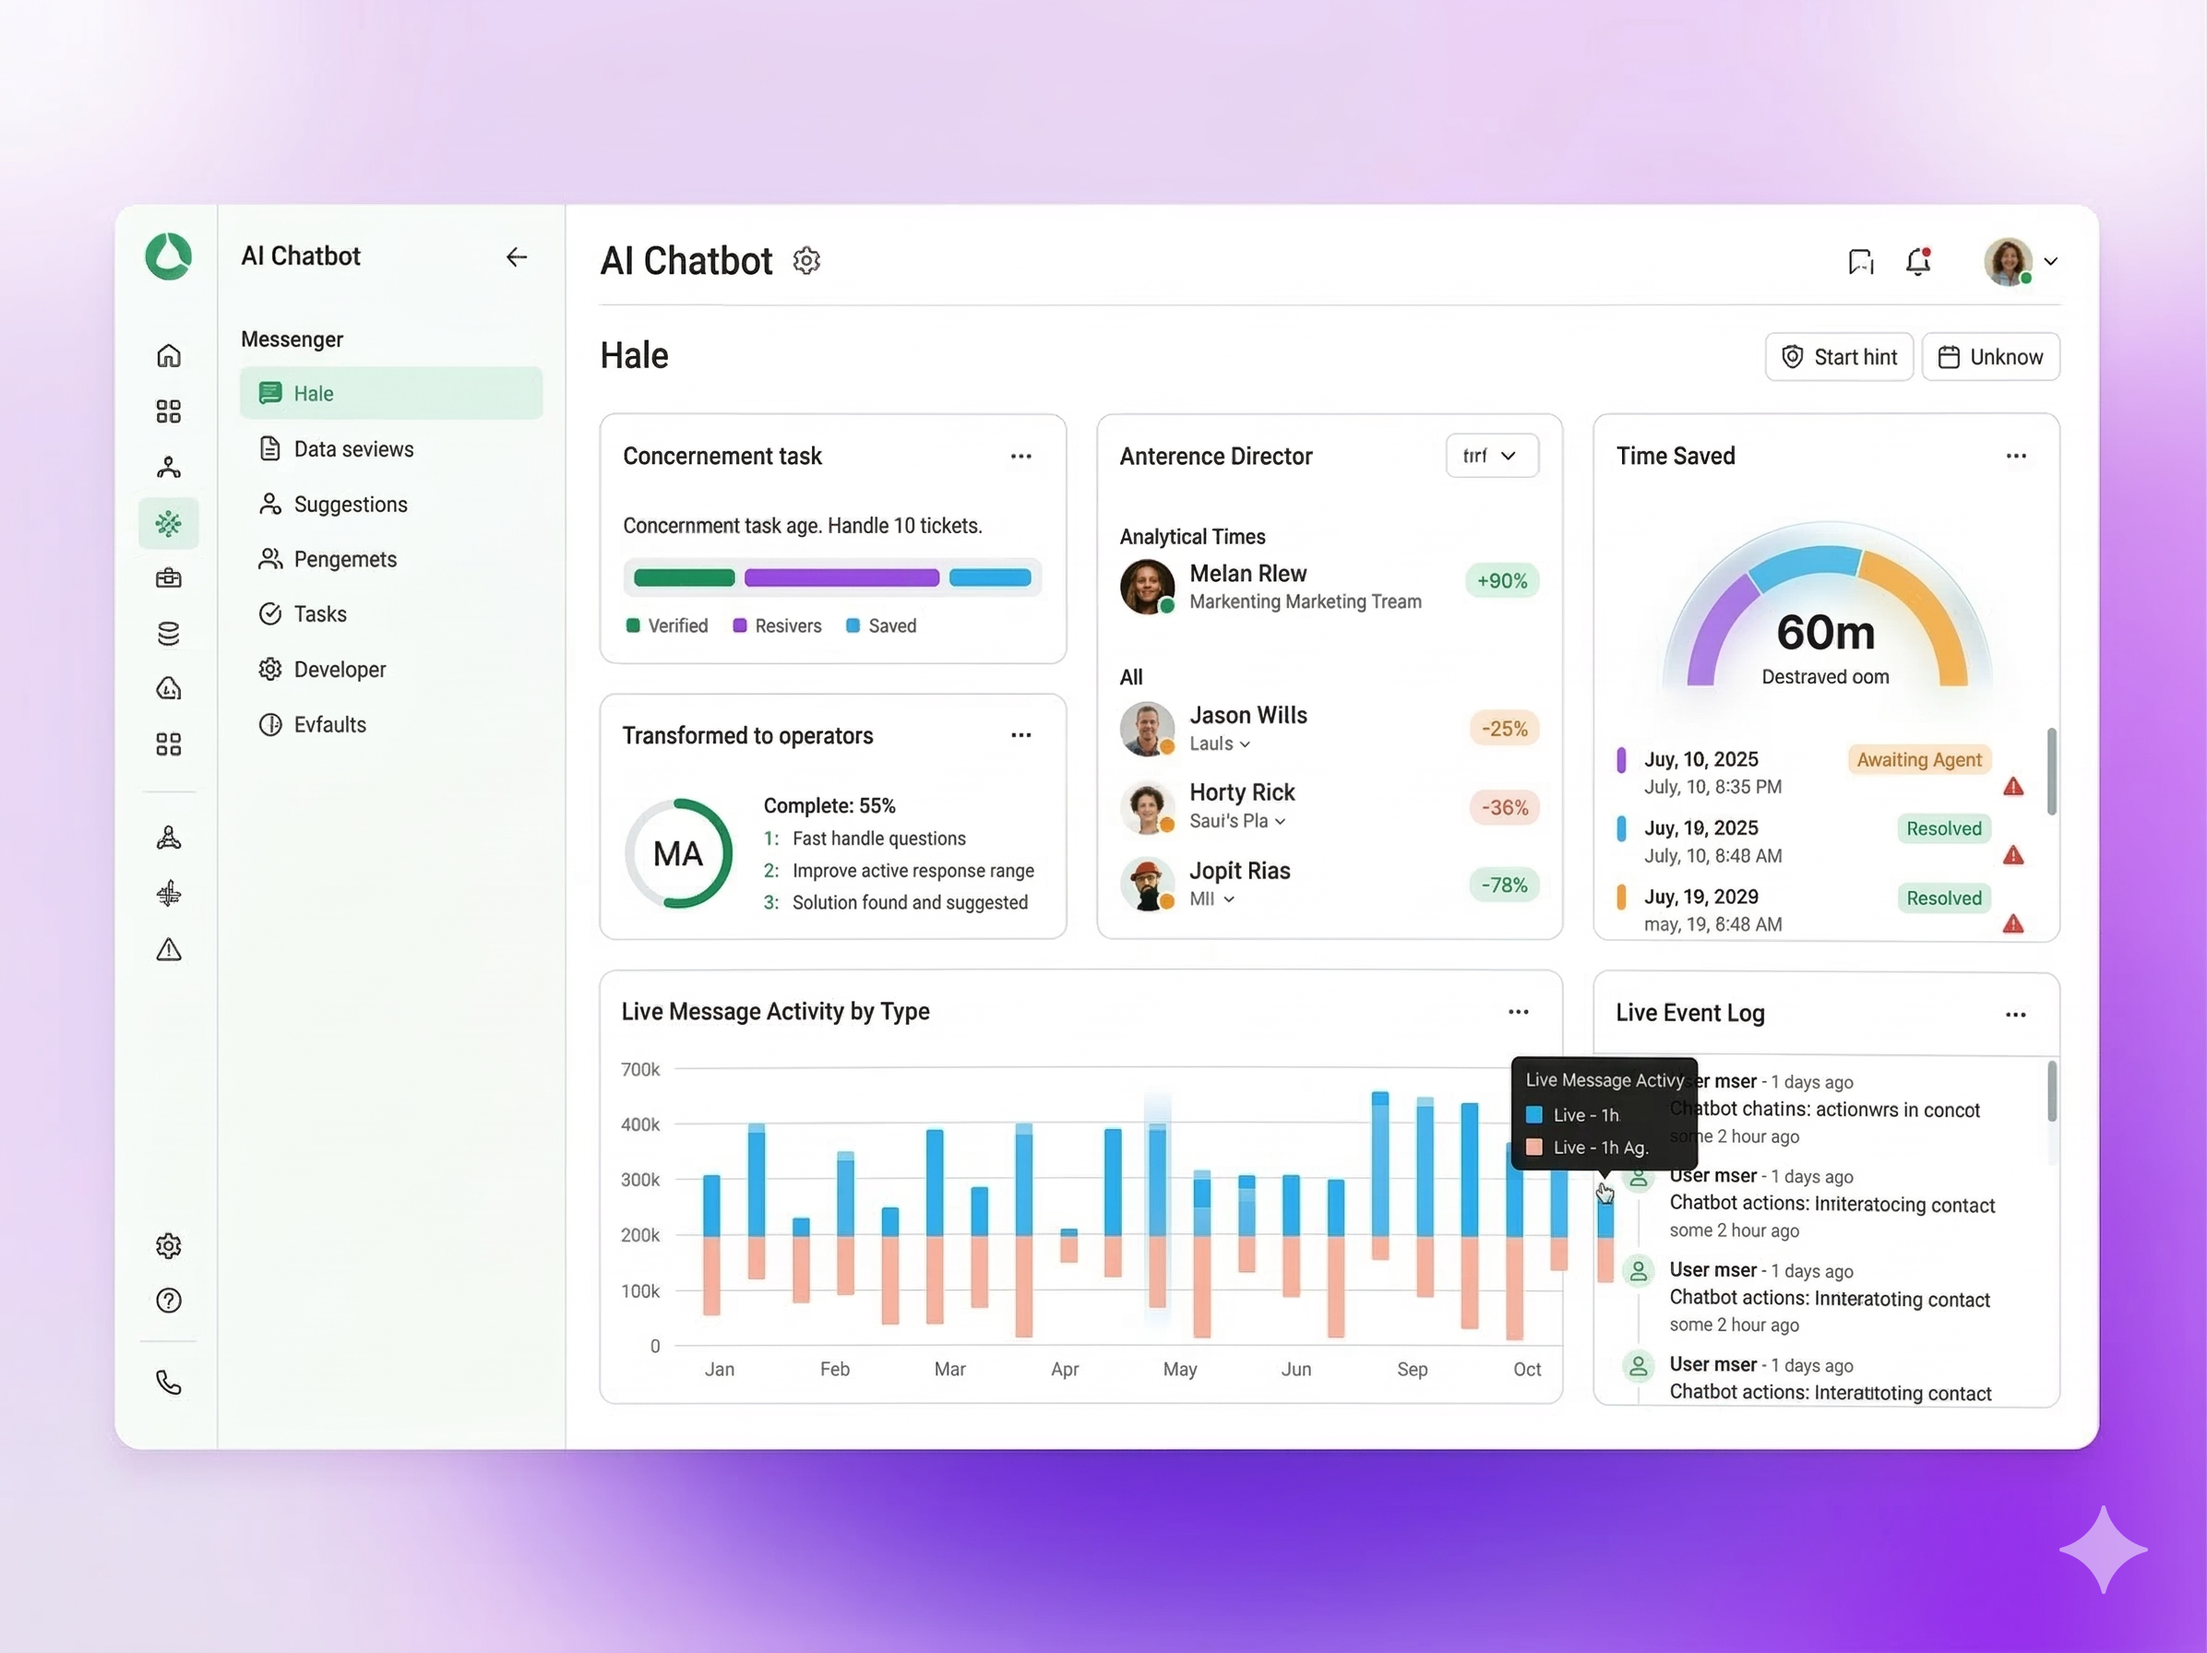
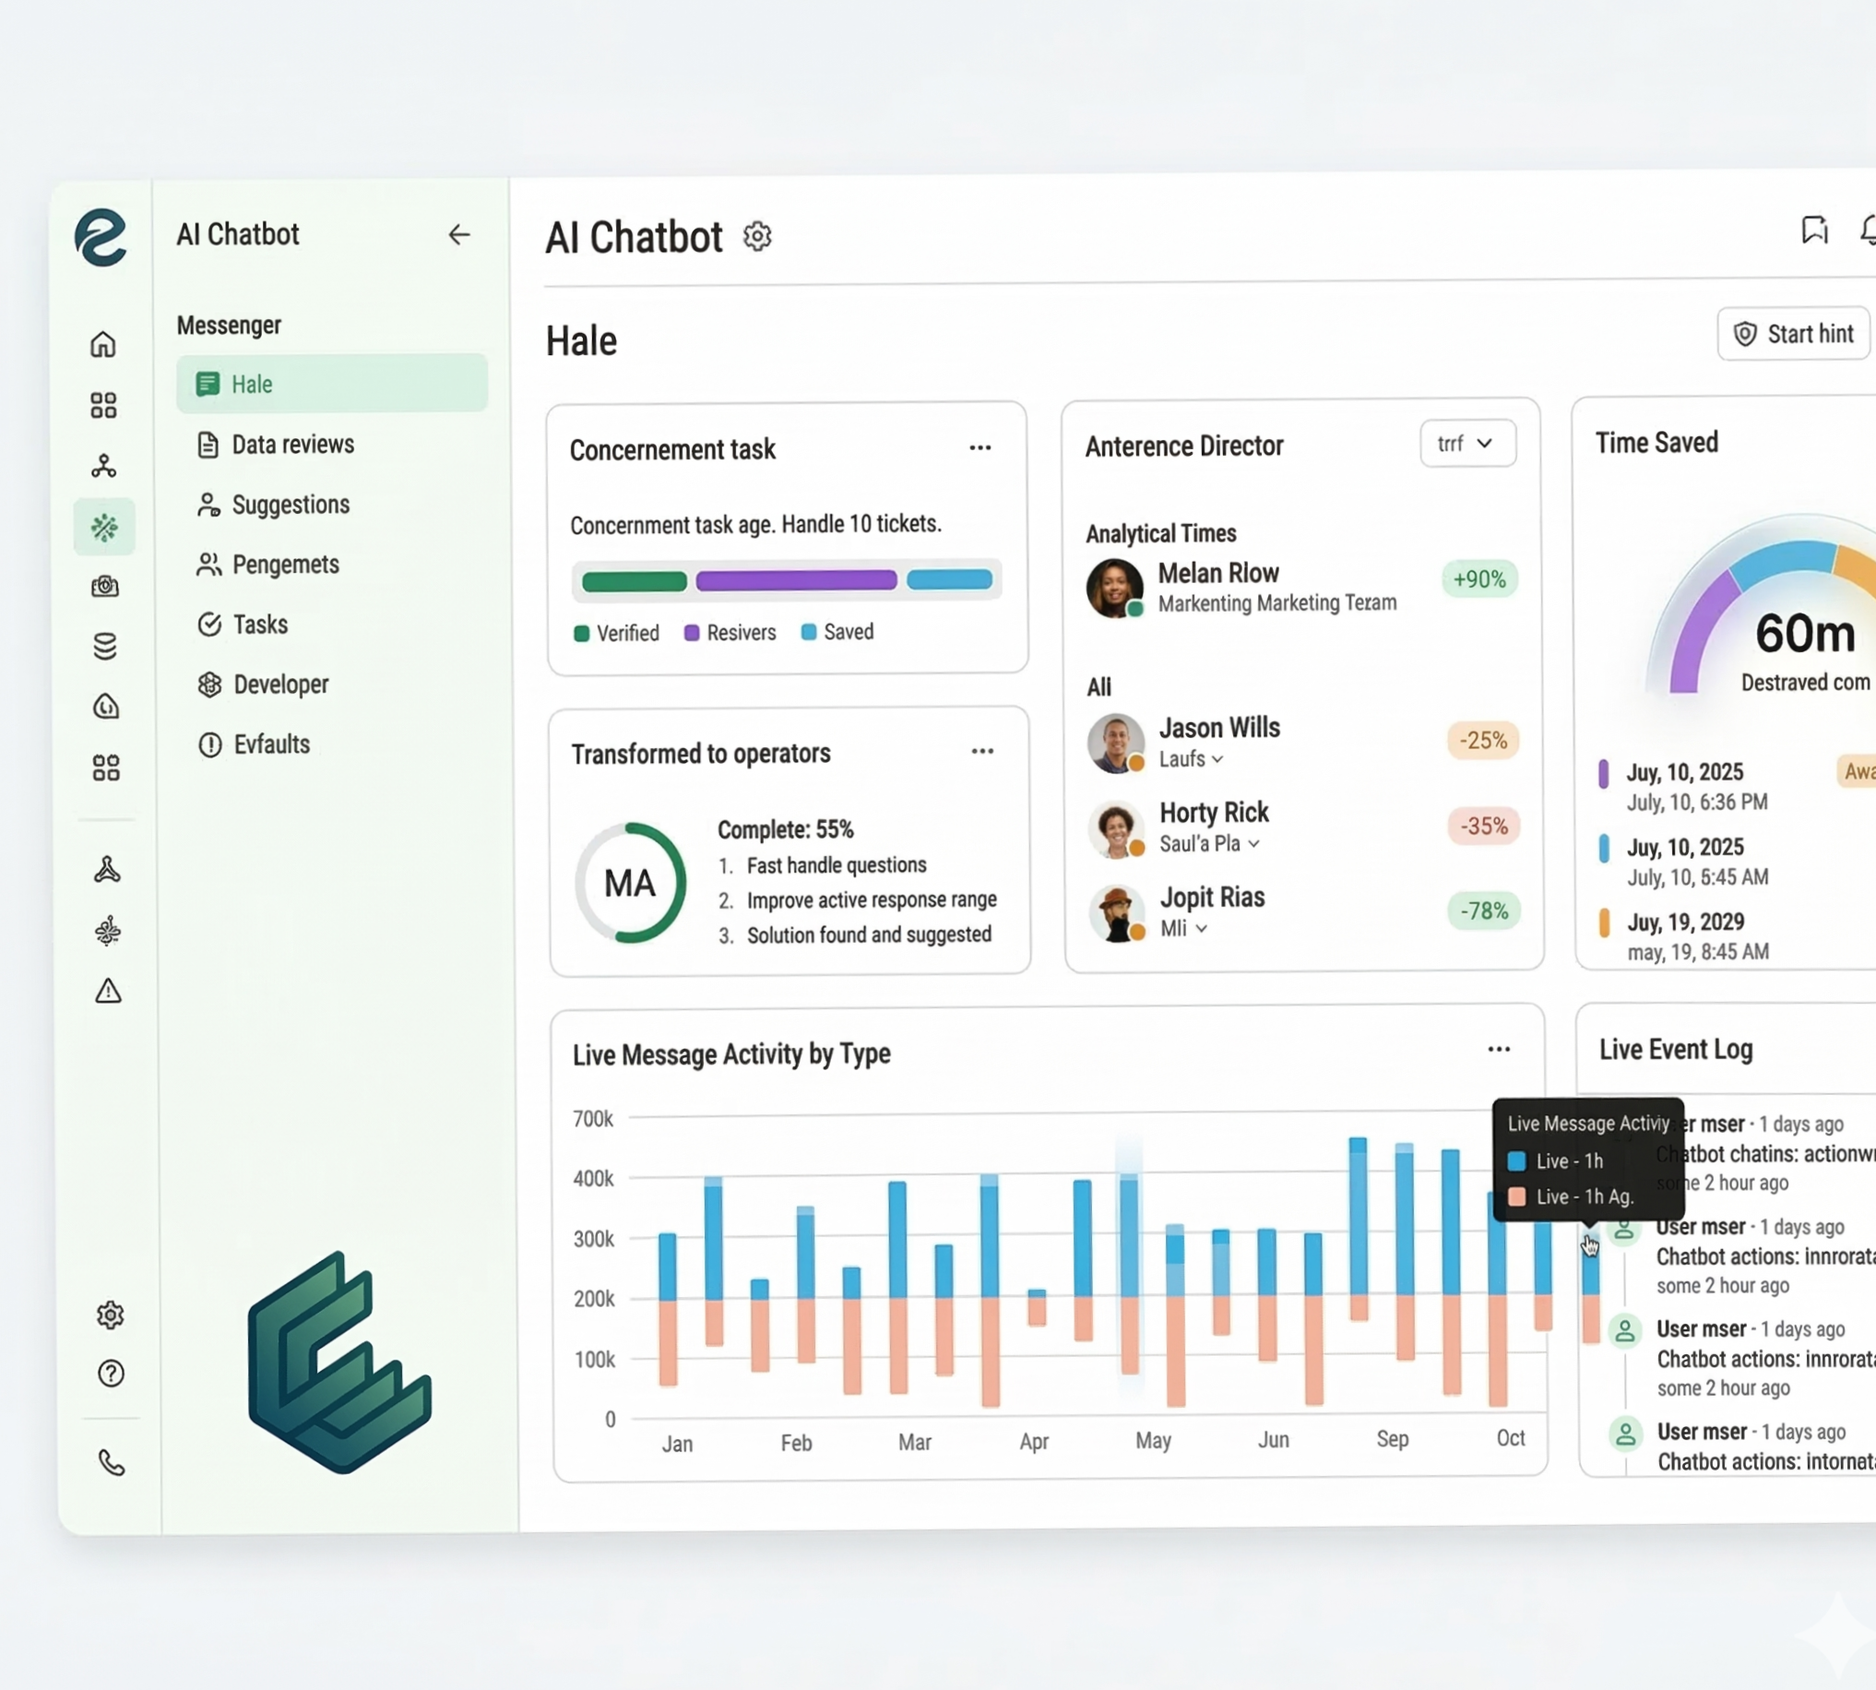
new changes made

diff --git a/src/Timeline.tsx b/src/Timeline.tsx
@@ -34,7 +34,7 @@ const steps: Step[] = [
     icon: <Layers className="w-6 h-6 md:w-7 md:h-7 text-current" />,
     image: architectureImg,
     description: "Our engineers build custom, AEON-powered flows tailored to your brand's unique logic.",
-    bgClass: "bg-[#E4D4F4]", // Pastel purple
+    bgClass: "bg-black", // Changed to black background for PNG compatibility
     iconWrapperClass: "bg-[#4B4EFC] text-white", // Royal Blue Rounded
   },
   {
@@ -42,7 +42,7 @@ const steps: Step[] = [
     title: "The Integration",
     icon: <Puzzle className="w-5 h-5 md:w-6 md:h-6 text-current" />,
     image: integrationImg,
-    description: "We sync your AI agents seamlessly with your CRM and existing tech stack.",
+    description: "We sync your AI agents seamlessly with your CRM (Hubspot, Zoho, or Salesforce) and existing stack.",
     bgClass: "bg-[#F9FAFB]", // Very light gray/white
     iconWrapperClass: "bg-[#1F2937] text-white", // Dark Slate Pill/Toggle
   },
@@ -105,7 +105,7 @@ export default function Timeline() {
               <motion.div
                 whileHover={{ scale: 1.05, y: -8 }}
                 transition={{ type: "spring", stiffness: 300, damping: 20 }}
-                className={`relative w-full aspect-[4/3] rounded-[1.25rem] ${step.id === 1 || step.id === 2 || step.id === 3 || step.id === 4 ? 'bg-white' : step.bgClass} overflow-hidden mb-6 shadow-sm border border-black/5 flex items-center justify-center cursor-pointer`}
+                className={`relative w-full aspect-[4/3] rounded-[1.25rem] ${step.id === 1 ? 'bg-white' : step.bgClass} overflow-hidden mb-6 shadow-sm border border-black/5 flex items-center justify-center cursor-pointer`}
               >
 
                 {/* Specific Background Patterns to match user reference */}
@@ -129,8 +129,8 @@ export default function Timeline() {
                   {step.id === 1 && (
                     <div className="flex flex-col items-center justify-center w-full h-full relative group/audit overflow-hidden rounded-[1.25rem]">
                       {/* Full Image visible filling the absolute container (zooms in on hover) */}
-                      <div className="absolute inset-0 z-10 transition-transform duration-700 ease-out scale-100 group-hover:scale-[1.12] origin-center bg-white">
-                        <img src={step.image} alt="Audit Process" className="w-full h-full object-cover" />
+                      <div className={`absolute inset-0 z-10 transition-transform duration-700 ease-out scale-100 group-hover:scale-[1.12] origin-center ${step.id === 1 ? 'bg-white' : 'transparent'}`}>
+                        <img src={step.image} alt="Audit Process" className="w-full h-full object-contain" />
                         <div className="absolute inset-0 shadow-[inset_0_0_40px_rgba(0,0,0,0.1)] pointer-events-none" />
                       </div>
                     </div>
@@ -140,8 +140,8 @@ export default function Timeline() {
                   {step.id === 2 && (
                     <div className="flex flex-col items-center justify-center w-full h-full relative group/arch overflow-hidden rounded-[1.25rem]">
                       {/* Full Image visible filling the absolute container (zooms in on hover) */}
-                      <div className="absolute inset-0 z-10 transition-transform duration-700 ease-out scale-100 group-hover:scale-[1.12] origin-center bg-white">
-                        <img src={step.image} alt="Architecture Process" className="w-full h-full object-cover" />
+                      <div className="absolute inset-0 z-10 transition-transform duration-700 ease-out scale-100 group-hover:scale-[1.12] origin-center transparent">
+                        <img src={step.image} alt="Architecture Process" className="w-full h-full object-contain" />
                         <div className="absolute inset-0 shadow-[inset_0_0_40px_rgba(0,0,0,0.1)] pointer-events-none" />
                       </div>
                     </div>
@@ -151,8 +151,8 @@ export default function Timeline() {
                   {step.id === 3 && (
                     <div className="flex flex-col items-center justify-center w-full h-full relative group/integ overflow-hidden rounded-[1.25rem]">
                       {/* Full Image visible filling the absolute container (zooms in on hover) */}
-                      <div className="absolute inset-0 z-10 transition-transform duration-700 ease-out scale-100 group-hover:scale-[1.12] origin-center bg-white">
-                        <img src={step.image} alt="Integration Process" className="w-full h-full object-cover" />
+                      <div className="absolute inset-0 z-10 transition-transform duration-700 ease-out scale-100 group-hover:scale-[1.12] origin-center transparent">
+                        <img src={step.image} alt="Integration Process" className="w-full h-full object-contain" />
                         <div className="absolute inset-0 shadow-[inset_0_0_40px_rgba(0,0,0,0.1)] pointer-events-none" />
                       </div>
                     </div>
@@ -162,8 +162,8 @@ export default function Timeline() {
                   {step.id === 4 && (
                     <div className="flex flex-col items-center justify-center w-full h-full relative group/scale overflow-hidden rounded-[1.25rem]">
                       {/* Full Image visible filling the absolute container (zooms in on hover) */}
-                      <div className="absolute inset-0 z-10 transition-transform duration-700 ease-out scale-100 group-hover:scale-[1.12] origin-center bg-white">
-                        <img src={step.image} alt="Scale Process" className="w-full h-full object-cover" />
+                      <div className="absolute inset-0 z-10 transition-transform duration-700 ease-out scale-100 group-hover:scale-[1.12] origin-center transparent">
+                        <img src={step.image} alt="Scale Process" className="w-full h-full object-contain" />
                         <div className="absolute inset-0 shadow-[inset_0_0_40px_rgba(0,0,0,0.1)] pointer-events-none" />
                       </div>
                     </div>
